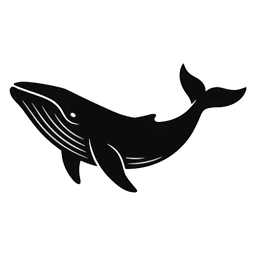
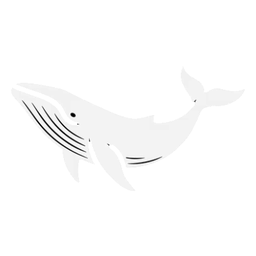
Icônes du théâtre et du rang : fine bordure blanche au lieu du rond clair ; poissons en blanc, crâne du No ban sans fond

Changed region(s): [[0.0312, 0.25, 0.9688, 0.75]]

diff --git a/site/matchmaking/matchmaking.html b/site/matchmaking/matchmaking.html
@@ -9,12 +9,12 @@
 <link rel="apple-touch-icon" href="/DB/images/others/appli_apple_180.png?v=2">
 <meta name="theme-color" content="#1e1e1e">
 <link rel="stylesheet" href="/commun/theme.css?v=rem5">
-<link rel="stylesheet" href="/commun/entete.css?v=rem46">
+<link rel="stylesheet" href="/commun/entete.css?v=rem47">
 <link rel="stylesheet" href="/commun/cartes.css?v=4">
 <link rel="stylesheet" href="/commun/namecards.css?v=3">
 <link rel="stylesheet" href="/matchmaking/matchmaking.css?v=38">
   <link rel="stylesheet" href="/commun/site.css?v=19">
-<script src="/commun/fond.js?v=18"></script>
+<script src="/commun/fond.js?v=19"></script>
 <script src="/commun/appli.js?v=1" defer></script>
 <script src="/commun/zoom.js?v=3"></script>
 <script src="/commun/compte.js?v=65" defer></script>
@@ -84,7 +84,7 @@
     <div class="modes-match" data-type="matchmaking">
       <button type="button" class="mode-match" data-mode="auto">Full box<span>draft du plus petit palier, full box seulement</span></button>
       <button type="button" class="mode-match" data-mode="auto_libre">Auto<span>draft du plus petit palier, full box ou box opti</span></button>
-      <button type="button" class="mode-match" data-mode="carpe"><span class="titre-mode"><img class="medaille-theatre" src="/DB/images/others/theatre_carpe.webp?v=3" alt=""> Classique</span><span>2 bans, 2 picks, 2 bans, 2 picks</span></button>
+      <button type="button" class="mode-match" data-mode="carpe"><span class="titre-mode"><img class="medaille-theatre" src="/DB/images/others/theatre_carpe.webp?v=4" alt=""> Classique</span><span>2 bans, 2 picks, 2 bans, 2 picks</span></button>
     </div>
 
     <h3 class="titre-bloc-match">Créer une room</h3>
@@ -107,11 +107,11 @@
     <div class="modes-match modes-reduits" data-type="prive">
       <button type="button" class="mode-match" data-mode="auto" data-full-box="1">Full box<span>draft du plus petit palier, full box seulement</span></button>
       <button type="button" class="mode-match" data-mode="auto">Auto<span>draft du plus petit palier, full box ou box opti</span></button>
-      <button type="button" class="mode-match mode-avance" data-mode="sardine"><span class="titre-mode"><img class="medaille-theatre" src="/DB/images/others/theatre_sardine.webp?v=3" alt=""> Sardine</span><span>2 bans, 2 picks, 1 ban, 2 picks</span></button>
-      <button type="button" class="mode-match" data-mode="carpe"><span class="titre-mode"><img class="medaille-theatre" src="/DB/images/others/theatre_carpe.webp?v=3" alt=""> Classique</span><span>2 bans, 2 picks, 2 bans, 2 picks</span></button>
-      <button type="button" class="mode-match mode-avance" data-mode="dauphin"><span class="titre-mode"><img class="medaille-theatre" src="/DB/images/others/theatre_dauphin.webp?v=3" alt=""> Dauphin</span><span>3 bans, 2 picks, 2 bans, 2 picks</span></button>
-      <button type="button" class="mode-match mode-avance" data-mode="baleine"><span class="titre-mode"><img class="medaille-theatre" src="/DB/images/others/theatre_baleine.webp?v=3" alt=""> Baleine</span><span>3 bans, 2 picks, 3 bans, 2 picks</span></button>
-      <button type="button" class="mode-match mode-avance" data-mode="carnage"><span class="titre-mode"><img class="medaille-theatre" src="/DB/images/others/carnage_inverse.webp?v=2" alt=""> No ban</span><span>2 bans, 2 picks, 2 bans, 2 picks, sans équilibrage</span></button>
+      <button type="button" class="mode-match mode-avance" data-mode="sardine"><span class="titre-mode"><img class="medaille-theatre" src="/DB/images/others/theatre_sardine.webp?v=4" alt=""> Sardine</span><span>2 bans, 2 picks, 1 ban, 2 picks</span></button>
+      <button type="button" class="mode-match" data-mode="carpe"><span class="titre-mode"><img class="medaille-theatre" src="/DB/images/others/theatre_carpe.webp?v=4" alt=""> Classique</span><span>2 bans, 2 picks, 2 bans, 2 picks</span></button>
+      <button type="button" class="mode-match mode-avance" data-mode="dauphin"><span class="titre-mode"><img class="medaille-theatre" src="/DB/images/others/theatre_dauphin.webp?v=4" alt=""> Dauphin</span><span>3 bans, 2 picks, 2 bans, 2 picks</span></button>
+      <button type="button" class="mode-match mode-avance" data-mode="baleine"><span class="titre-mode"><img class="medaille-theatre" src="/DB/images/others/theatre_baleine.webp?v=4" alt=""> Baleine</span><span>3 bans, 2 picks, 3 bans, 2 picks</span></button>
+      <button type="button" class="mode-match mode-avance" data-mode="carnage"><span class="titre-mode"><img class="medaille-theatre" src="/DB/images/others/carnage.webp" alt=""> No ban</span><span>2 bans, 2 picks, 2 bans, 2 picks, sans équilibrage</span></button>
       <button type="button" class="mode-match mode-plus">Plus d'options<span>Sardine, Dauphin, Baleine, No ban</span></button>
     </div>
   </section>
@@ -191,11 +191,11 @@
       <label class="case-entrainement cache" id="ligne-ent-equilibrage"><input type="checkbox" id="ent-equilibrage" title="Après l'analyse, déroulé complet du calcul des bans d'équilibrage verticaux puis horizontaux (sans chronos)"> Mode Équilibrage <span class="badge-admin">Admin</span></label>
       <div class="choix-boutons" id="ent-mode">
         <button type="button" class="choix-btn active" data-valeur="auto">Full box<span>draft du plus petit palier</span></button>
-        <button type="button" class="choix-btn" data-valeur="sardine"><span class="titre-mode"><img class="medaille-theatre" src="/DB/images/others/theatre_sardine.webp?v=3" alt=""> Sardine</span><span>3 bans</span></button>
-        <button type="button" class="choix-btn" data-valeur="carpe"><span class="titre-mode"><img class="medaille-theatre" src="/DB/images/others/theatre_carpe.webp?v=3" alt=""> Classique</span><span>4 bans (comme le classé)</span></button>
-        <button type="button" class="choix-btn" data-valeur="dauphin"><span class="titre-mode"><img class="medaille-theatre" src="/DB/images/others/theatre_dauphin.webp?v=3" alt=""> Dauphin</span><span>5 bans</span></button>
-        <button type="button" class="choix-btn" data-valeur="baleine"><span class="titre-mode"><img class="medaille-theatre" src="/DB/images/others/theatre_baleine.webp?v=3" alt=""> Baleine</span><span>6 bans</span></button>
-        <button type="button" class="choix-btn" data-valeur="carnage"><span class="titre-mode"><img class="medaille-theatre" src="/DB/images/others/carnage_inverse.webp?v=2" alt=""> No ban</span><span>4 bans, sans équilibrage</span></button>
+        <button type="button" class="choix-btn" data-valeur="sardine"><span class="titre-mode"><img class="medaille-theatre" src="/DB/images/others/theatre_sardine.webp?v=4" alt=""> Sardine</span><span>3 bans</span></button>
+        <button type="button" class="choix-btn" data-valeur="carpe"><span class="titre-mode"><img class="medaille-theatre" src="/DB/images/others/theatre_carpe.webp?v=4" alt=""> Classique</span><span>4 bans (comme le classé)</span></button>
+        <button type="button" class="choix-btn" data-valeur="dauphin"><span class="titre-mode"><img class="medaille-theatre" src="/DB/images/others/theatre_dauphin.webp?v=4" alt=""> Dauphin</span><span>5 bans</span></button>
+        <button type="button" class="choix-btn" data-valeur="baleine"><span class="titre-mode"><img class="medaille-theatre" src="/DB/images/others/theatre_baleine.webp?v=4" alt=""> Baleine</span><span>6 bans</span></button>
+        <button type="button" class="choix-btn" data-valeur="carnage"><span class="titre-mode"><img class="medaille-theatre" src="/DB/images/others/carnage.webp" alt=""> No ban</span><span>4 bans, sans équilibrage</span></button>
       </div>
     </div>
 
@@ -236,7 +236,7 @@
 
   <script src="/commun/variantes.js?v=4"></script>
   <script src="/commun/synergies.js?v=3"></script>
-  <script src="/commun/cartes.js?v=36"></script>
+  <script src="/commun/cartes.js?v=37"></script>
   <script src="/matchmaking/matchmaking.js?v=48"></script>
   <script src="/commun/listes.js?v=1"></script>
   <script src="/commun/site.js?v=24"></script>

diff --git a/site/all_accounts/all_accounts.html b/site/all_accounts/all_accounts.html
@@ -9,11 +9,11 @@
 <link rel="apple-touch-icon" href="/DB/images/others/appli_apple_180.png?v=2">
 <meta name="theme-color" content="#1e1e1e">
 <link rel="stylesheet" href="/all_accounts/all_accounts.css?v=rem36">
-<link rel="stylesheet" href="/commun/entete.css?v=rem46">
-<link rel="stylesheet" href="/commun/tri.css?v=7">
+<link rel="stylesheet" href="/commun/entete.css?v=rem47">
+<link rel="stylesheet" href="/commun/tri.css?v=8">
 <link rel="stylesheet" href="/commun/cartes.css?v=4">
   <link rel="stylesheet" href="/commun/site.css?v=19">
-<script src="/commun/fond.js?v=18"></script>
+<script src="/commun/fond.js?v=19"></script>
 <script src="/commun/appli.js?v=1" defer></script>
 <script src="/commun/zoom.js?v=3"></script>
 <script src="/commun/compte.js?v=65" defer></script>
@@ -39,9 +39,9 @@
       <button type="button" class="filtre-etoile-btn tri-compte-btn" data-tri="alpha">A → Z <span class="fleche"></span></button>
       <button type="button" class="filtre-etoile-btn tri-compte-btn" data-tri="points" title="Trier par points"><img class="tri-logo" src="/DB/images/others/scale.webp" alt="Points"> <span class="fleche"></span></button>
       <button type="button" class="filtre-etoile-btn tri-compte-btn" data-tri="nb_persos" title="Nombre de personnages"><img class="tri-logo" src="/DB/images/others/Icon_Party_Setup.webp" alt="Nombre de personnages"> <span class="fleche"></span></button>
-      <button type="button" class="filtre-etoile-btn tri-compte-btn" data-tri="nb_c6" title="C6 5★"><img class="tri-logo" src="/DB/images/others/theatre_baleine.webp?v=3" alt="C6 5★"> <span class="fleche"></span></button>
+      <button type="button" class="filtre-etoile-btn tri-compte-btn" data-tri="nb_c6" title="C6 5★"><img class="tri-logo" src="/DB/images/others/theatre_baleine.webp?v=4" alt="C6 5★"> <span class="fleche"></span></button>
       <button type="button" class="filtre-etoile-btn tri-compte-btn" data-tri="constellations_5" title="Somme des constellations des 5★ limités (sans les persos standards)"><img class="tri-logo" src="/DB/images/others/Item_Genesis_Crystal.webp" alt="Constellations 5★"> <span class="fleche"></span></button>
-      <button type="button" class="filtre-etoile-btn tri-compte-btn" data-tri="theatre" title="Théâtre : palier et cost de la full box"><img class="tri-logo tri-logo-palier" src="/DB/images/others/theatre_carpe.webp?v=3" alt="Théâtre"> <span class="fleche"></span></button>
+      <button type="button" class="filtre-etoile-btn tri-compte-btn" data-tri="theatre" title="Théâtre : palier et cost de la full box"><img class="tri-logo tri-logo-palier" src="/DB/images/others/theatre_carpe.webp?v=4" alt="Théâtre"> <span class="fleche"></span></button>
       <button type="button" class="filtre-etoile-btn tri-compte-btn" data-tri="matchs" title="Matchs joués"><span class="tri-emoji" aria-label="Matchs">⚔</span> <span class="fleche"></span></button>
       <button type="button" class="filtre-etoile-btn tri-compte-btn" data-tri="ratio" title="Winrate"><img class="tri-logo" src="/DB/images/others/Achievement_Wonders_of_the_World.webp" alt="Winrate"> <span class="fleche"></span></button>
     </div>
@@ -140,7 +140,7 @@
 
   <script src="/commun/variantes.js?v=4"></script>
   <script src="/commun/synergies.js?v=3"></script>
-  <script src="/commun/cartes.js?v=36"></script>
+  <script src="/commun/cartes.js?v=37"></script>
   <script src="/commun/tri.js?v=21"></script>
   <script src="/all_accounts/all_accounts.js?v=43"></script>
   <script src="/commun/listes.js?v=1"></script>

diff --git a/site/leaderboard.html b/site/leaderboard.html
@@ -9,11 +9,11 @@
   <meta name="theme-color" content="#1e1e1e">
 <meta name="viewport" content="width=device-width, initial-scale=1.0">
   <link rel="stylesheet" href="/commun/theme.css?v=rem5">
-  <link rel="stylesheet" href="/commun/entete.css?v=rem46">
-  <link rel="stylesheet" href="/commun/tri.css?v=7">
+  <link rel="stylesheet" href="/commun/entete.css?v=rem47">
+  <link rel="stylesheet" href="/commun/tri.css?v=8">
   <link rel="stylesheet" href="/classement/classement.css?v=13">
   <link rel="stylesheet" href="/commun/site.css?v=19">
-<script src="/commun/fond.js?v=18"></script>
+<script src="/commun/fond.js?v=19"></script>
 <script src="/commun/appli.js?v=1" defer></script>
 <script src="/commun/zoom.js?v=3"></script>
 <script src="/commun/compte.js?v=65" defer></script>
@@ -48,16 +48,16 @@
       <span class="col-stat tri-entete" data-col="ratio" data-tri="ratio" title="Trier par : Winrate en classé">%<span class="fleche"></span></span>
       <span class="col-stat tri-entete" data-col="points" data-tri="points" title="Trier par : Points (Full box)"><img class="tri-logo" src="/DB/images/others/scale.webp" alt=""><span class="fleche"></span></span>
       <span class="col-stat tri-entete" data-col="nb_persos" data-tri="nb_persos" title="Trier par : Nombre de personnages"><img class="tri-logo" src="/DB/images/others/Icon_Party_Setup.webp" alt=""><span class="fleche"></span></span>
-      <span class="col-stat tri-entete" data-col="nb_c6" data-tri="nb_c6" title="Trier par : C6 5★"><img class="tri-logo" src="/DB/images/others/theatre_baleine.webp?v=3" alt=""><span class="fleche"></span></span>
+      <span class="col-stat tri-entete" data-col="nb_c6" data-tri="nb_c6" title="Trier par : C6 5★"><img class="tri-logo" src="/DB/images/others/theatre_baleine.webp?v=4" alt=""><span class="fleche"></span></span>
       <span class="col-stat tri-entete" data-col="constellations_5" data-tri="constellations_5" title="Trier par : Constellations 5★ limités"><img class="tri-logo" src="/DB/images/others/Item_Genesis_Crystal.webp" alt=""><span class="fleche"></span></span>
-      <span class="col-stat tri-entete" data-col="theatre" data-tri="theatre" title="Trier par : Théâtre"><img class="tri-logo tri-logo-palier" src="/DB/images/others/theatre_carpe.webp?v=3" alt=""><span class="fleche"></span></span>
+      <span class="col-stat tri-entete" data-col="theatre" data-tri="theatre" title="Trier par : Théâtre"><img class="tri-logo tri-logo-palier" src="/DB/images/others/theatre_carpe.webp?v=4" alt=""><span class="fleche"></span></span>
     </div>
     <p id="etat-classement" class="etat-classement">Chargement…</p>
     <div id="liste-classement"></div>
   </div>
 
   <script src="/commun/synergies.js?v=3"></script>
-  <script src="/commun/cartes.js?v=36"></script>
+  <script src="/commun/cartes.js?v=37"></script>
   <script src="/classement/classement.js?v=14"></script>
   <script src="/commun/listes.js?v=1"></script>
   <script src="/commun/site.js?v=24"></script>

diff --git a/site/historique/historique.html b/site/historique/historique.html
@@ -9,12 +9,12 @@
 <link rel="apple-touch-icon" href="/DB/images/others/appli_apple_180.png?v=2">
 <meta name="theme-color" content="#1e1e1e">
 <link rel="stylesheet" href="/commun/theme.css?v=rem5">
-<link rel="stylesheet" href="/historique/historique.css?v=54">
-<link rel="stylesheet" href="/commun/entete.css?v=rem46">
-<link rel="stylesheet" href="/commun/tri.css?v=7">
+<link rel="stylesheet" href="/historique/historique.css?v=55">
+<link rel="stylesheet" href="/commun/entete.css?v=rem47">
+<link rel="stylesheet" href="/commun/tri.css?v=8">
 <link rel="stylesheet" href="/commun/cartes.css?v=4">
   <link rel="stylesheet" href="/commun/site.css?v=19">
-<script src="/commun/fond.js?v=18"></script>
+<script src="/commun/fond.js?v=19"></script>
 <script src="/commun/appli.js?v=1" defer></script>
 <script src="/commun/zoom.js?v=3"></script>
 <script src="/commun/compte.js?v=65" defer></script>
@@ -277,9 +277,9 @@
 
   <script src="/commun/variantes.js?v=4"></script>
   <script src="/commun/synergies.js?v=3"></script>
-  <script src="/commun/cartes.js?v=36"></script>
+  <script src="/commun/cartes.js?v=37"></script>
   <script src="/commun/tri.js?v=21"></script>
-  <script src="/historique/historique.js?v=77"></script>
+  <script src="/historique/historique.js?v=78"></script>
   <script src="/commun/listes.js?v=1"></script>
   <script src="/commun/site.js?v=24"></script>
 </body>

diff --git a/site/matchmaking/match.html b/site/matchmaking/match.html
@@ -8,13 +8,13 @@
 <link rel="manifest" href="/manifest.webmanifest">
 <link rel="apple-touch-icon" href="/DB/images/others/appli_apple_180.png?v=2">
 <meta name="theme-color" content="#1e1e1e">
-<link rel="stylesheet" href="/matchmaking/match.css?v=rem75">
+<link rel="stylesheet" href="/matchmaking/match.css?v=rem76">
 <link rel="stylesheet" href="/matchmaking/equilibrage.css?v=4">
-<link rel="stylesheet" href="/commun/entete.css?v=rem46">
+<link rel="stylesheet" href="/commun/entete.css?v=rem47">
 <link rel="stylesheet" href="/commun/site.css?v=19">
-<script src="/commun/fond.js?v=18" data-sans-fond></script>
+<script src="/commun/fond.js?v=19" data-sans-fond></script>
 <script src="/commun/zoom.js?v=3"></script>
-<link rel="stylesheet" href="/commun/tri.css?v=7">
+<link rel="stylesheet" href="/commun/tri.css?v=8">
 <link rel="stylesheet" href="/commun/cartes.css?v=4">
   <link rel="stylesheet" href="/commun/listes.css?v=2">
 </head>
@@ -307,7 +307,7 @@
   <script src="/commun/compte.js?v=65" defer></script>
   <script src="/commun/variantes.js?v=4"></script>
   <script src="/commun/synergies.js?v=3"></script>
-  <script src="/commun/cartes.js?v=36"></script>
+  <script src="/commun/cartes.js?v=37"></script>
   <script src="/commun/tri.js?v=21"></script>
   <script src="/commun/filtres_draft.js?v=4"></script>
   <script src="/commun/recommandations_boss.js?v=1"></script>

diff --git a/site/my_account/my_account.html b/site/my_account/my_account.html
@@ -10,11 +10,11 @@
 <meta name="theme-color" content="#1e1e1e">
 <link rel="stylesheet" href="/my_account/my_account.css?v=rem51">
 <link rel="stylesheet" href="/commun/tuto_hoyolab.css?v=1">
-<link rel="stylesheet" href="/commun/entete.css?v=rem46">
-<link rel="stylesheet" href="/commun/tri.css?v=7">
+<link rel="stylesheet" href="/commun/entete.css?v=rem47">
+<link rel="stylesheet" href="/commun/tri.css?v=8">
 <link rel="stylesheet" href="/commun/cartes.css?v=4">
   <link rel="stylesheet" href="/commun/site.css?v=19">
-<script src="/commun/fond.js?v=18" data-sans-requete></script>
+<script src="/commun/fond.js?v=19" data-sans-requete></script>
 <script src="/commun/appli.js?v=1" defer></script>
 <script src="/commun/zoom.js?v=3"></script>
   <link rel="stylesheet" href="/commun/listes.css?v=2">
@@ -323,7 +323,7 @@
   <script src="/my_account/auto_box/detection.js?v=2"></script>
   <script src="/my_account/auto_box/interface.js?v=5"></script>
   <script src="/commun/synergies.js?v=3"></script>
-  <script src="/commun/cartes.js?v=36"></script>
+  <script src="/commun/cartes.js?v=37"></script>
   <script src="/commun/tri.js?v=21"></script>
   <script src="/commun/personnalisation.js?v=42"></script>
   <script src="/commun/recommandations_stuff.js?v=1"></script>

diff --git a/site/commun/entete.css b/site/commun/entete.css
@@ -593,7 +593,7 @@ body::before {
 /* ---- Médaille du théâtre à côté d'un pseudo (namecards, bannières,
    bouton du compte ; cf. htmlMedailleTheatre dans commun/cartes.js et
    appliquerMedaille dans commun/fond.js) : 1,3 x la hauteur du texte au
-   maximum, sur un rond gris qui la fait ressortir. ---- */
+   maximum, dans une fine bordure blanche. ---- */
 .medaille-theatre {
   box-sizing: border-box;
   flex-shrink: 0;
@@ -601,8 +601,8 @@ body::before {
   height: 1.3em;
   padding: 0.1em;
   border-radius: 50%;
-  /* Icônes des paliers noires (cf. urlMedailleTheatre) : rond clair. */
-  background-color: rgba(235, 235, 235, 0.92);
+  /* Icônes des paliers blanches (cf. urlMedailleTheatre) : fine bordure. */
+  border: 1px solid rgba(255, 255, 255, 0.85);
   object-fit: contain;
   vertical-align: middle;
 }
@@ -638,9 +638,9 @@ body::before {
   width: 1.3em;
   height: 1.3em;
   padding: 0.1em;
-  /* Rond clair, comme la médaille du théâtre (cf. .medaille-theatre). */
+  /* Fine bordure, comme la médaille du théâtre (cf. .medaille-theatre). */
   border-radius: 50%;
-  background-color: rgba(235, 235, 235, 0.92);
+  border: 1px solid rgba(255, 255, 255, 0.85);
   vertical-align: middle;
 }
 

diff --git a/site/matchmaking/world_boss.html b/site/matchmaking/world_boss.html
@@ -8,10 +8,10 @@
 <link rel="manifest" href="/manifest.webmanifest">
 <link rel="apple-touch-icon" href="/DB/images/others/appli_apple_180.png?v=2">
 <meta name="theme-color" content="#1e1e1e">
-<link rel="stylesheet" href="/matchmaking/match.css?v=rem72">
-<link rel="stylesheet" href="/commun/entete.css?v=rem46">
+<link rel="stylesheet" href="/matchmaking/match.css?v=rem76">
+<link rel="stylesheet" href="/commun/entete.css?v=rem47">
 <link rel="stylesheet" href="/commun/site.css?v=19">
-<script src="/commun/fond.js?v=18" data-sans-fond></script>
+<script src="/commun/fond.js?v=19" data-sans-fond></script>
 <link rel="stylesheet" href="/commun/cartes.css?v=4">
 <link rel="stylesheet" href="/matchmaking/equipe.css?v=6">
 <link rel="stylesheet" href="/matchmaking/world_boss.css?v=3">
@@ -111,7 +111,7 @@
 <script src="/commun/compte.js?v=65" defer></script>
 <script src="/commun/variantes.js?v=4"></script>
 <script src="/commun/synergies.js?v=3"></script>
-<script src="/commun/cartes.js?v=36"></script>
+<script src="/commun/cartes.js?v=37"></script>
 <script src="/commun/tri.js?v=21"></script>
 <script src="/commun/recommandations_boss.js?v=1"></script>
 <script src="/commun/koyns.js?v=14"></script>

diff --git a/site/matchmaking/equipe.html b/site/matchmaking/equipe.html
@@ -8,10 +8,10 @@
 <link rel="manifest" href="/manifest.webmanifest">
 <link rel="apple-touch-icon" href="/DB/images/others/appli_apple_180.png?v=2">
 <meta name="theme-color" content="#1e1e1e">
-<link rel="stylesheet" href="/matchmaking/match.css?v=rem72">
-<link rel="stylesheet" href="/commun/entete.css?v=rem46">
+<link rel="stylesheet" href="/matchmaking/match.css?v=rem76">
+<link rel="stylesheet" href="/commun/entete.css?v=rem47">
 <link rel="stylesheet" href="/commun/site.css?v=19">
-<script src="/commun/fond.js?v=18" data-sans-fond></script>
+<script src="/commun/fond.js?v=19" data-sans-fond></script>
 <link rel="stylesheet" href="/commun/cartes.css?v=4">
 <link rel="stylesheet" href="/matchmaking/equipe.css?v=7">
 <script src="/commun/zoom.js?v=3"></script>
@@ -157,7 +157,7 @@
 <script src="/commun/compte.js?v=65" defer></script>
 <script src="/commun/variantes.js?v=4"></script>
 <script src="/commun/synergies.js?v=3"></script>
-<script src="/commun/cartes.js?v=36"></script>
+<script src="/commun/cartes.js?v=37"></script>
 <script src="/commun/tri.js?v=21"></script>
 <script src="/commun/recommandations_boss.js?v=1"></script>
 <script src="/commun/koyns.js?v=14"></script>

diff --git a/site/evenements.html b/site/evenements.html
@@ -9,12 +9,12 @@
   <meta name="theme-color" content="#1e1e1e">
 <meta name="viewport" content="width=device-width, initial-scale=1.0">
   <link rel="stylesheet" href="/commun/theme.css?v=rem5">
-  <link rel="stylesheet" href="/commun/entete.css?v=rem46">
+  <link rel="stylesheet" href="/commun/entete.css?v=rem47">
   <link rel="stylesheet" href="/commun/namecards.css?v=3">
   <link rel="stylesheet" href="/matchmaking/matchmaking.css?v=38">
   <link rel="stylesheet" href="/evenements/evenements.css?v=7">
   <link rel="stylesheet" href="/commun/site.css?v=19">
-<script src="/commun/fond.js?v=18"></script>
+<script src="/commun/fond.js?v=19"></script>
 <script src="/commun/appli.js?v=1" defer></script>
 <script src="/commun/zoom.js?v=3"></script>
 <script src="/commun/compte.js?v=65" defer></script>
@@ -90,7 +90,7 @@
 
   <script src="/commun/variantes.js?v=4"></script>
   <script src="/commun/synergies.js?v=3"></script>
-  <script src="/commun/cartes.js?v=36"></script>
+  <script src="/commun/cartes.js?v=37"></script>
   <script src="/evenements/evenements.js?v=12"></script>
   <script src="/commun/listes.js?v=1"></script>
   <script src="/commun/site.js?v=24"></script>

diff --git a/site/admin_ppc/admin_ppc.html b/site/admin_ppc/admin_ppc.html
@@ -14,11 +14,11 @@
 <meta name="theme-color" content="#1e1e1e">
 <link rel="stylesheet" href="/commun/theme.css?v=rem5">
 <link rel="stylesheet" href="/admin_ppc/admin_ppc.css?v=56">
-<link rel="stylesheet" href="/commun/entete.css?v=rem46">
+<link rel="stylesheet" href="/commun/entete.css?v=rem47">
 <link rel="stylesheet" href="/commun/cartes.css?v=4">
-<link rel="stylesheet" href="/commun/tri.css?v=7">
+<link rel="stylesheet" href="/commun/tri.css?v=8">
   <link rel="stylesheet" href="/commun/site.css?v=19">
-<script src="/commun/fond.js?v=18"></script>
+<script src="/commun/fond.js?v=19"></script>
 <script src="/commun/appli.js?v=1" defer></script>
 <script src="/commun/zoom.js?v=3"></script>
 <script src="/commun/compte.js?v=65" defer></script>
@@ -621,7 +621,7 @@
 
   <script src="/commun/variantes.js?v=4"></script>
   <script src="/commun/synergies.js?v=3"></script>
-  <script src="/commun/cartes.js?v=36"></script>
+  <script src="/commun/cartes.js?v=37"></script>
   <script src="/commun/tri.js?v=21"></script>
   <script src="/admin_ppc/admin_ajout.js?v=8"></script>
   <script src="/commun/recommandations_boss.js?v=1"></script>

diff --git a/site/theorycraft/theorycraft.html b/site/theorycraft/theorycraft.html
@@ -11,11 +11,11 @@
   <!-- Pas d'indexation par les moteurs de recherche. -->
   <meta name="robots" content="noindex, nofollow">
   <link rel="stylesheet" href="/commun/theme.css?v=rem5">
-  <link rel="stylesheet" href="/commun/entete.css?v=rem46">
+  <link rel="stylesheet" href="/commun/entete.css?v=rem47">
   <link rel="stylesheet" href="/commun/cartes.css?v=4">
   <link rel="stylesheet" href="/theorycraft/theorycraft.css?v=10">
   <link rel="stylesheet" href="/commun/site.css?v=19">
-<script src="/commun/fond.js?v=18"></script>
+<script src="/commun/fond.js?v=19"></script>
 <script src="/commun/appli.js?v=1" defer></script>
 <script src="/commun/zoom.js?v=3"></script>
 <script src="/commun/compte.js?v=65" defer></script>
@@ -78,7 +78,7 @@
 
   <script src="/commun/variantes.js?v=4"></script>
   <script src="/commun/synergies.js?v=3"></script>
-  <script src="/commun/cartes.js?v=36"></script>
+  <script src="/commun/cartes.js?v=37"></script>
   <script src="/commun/tri.js?v=21"></script>
   <script src="/theorycraft/theorycraft.js?v=31"></script>
   <script src="/commun/listes.js?v=1"></script>
